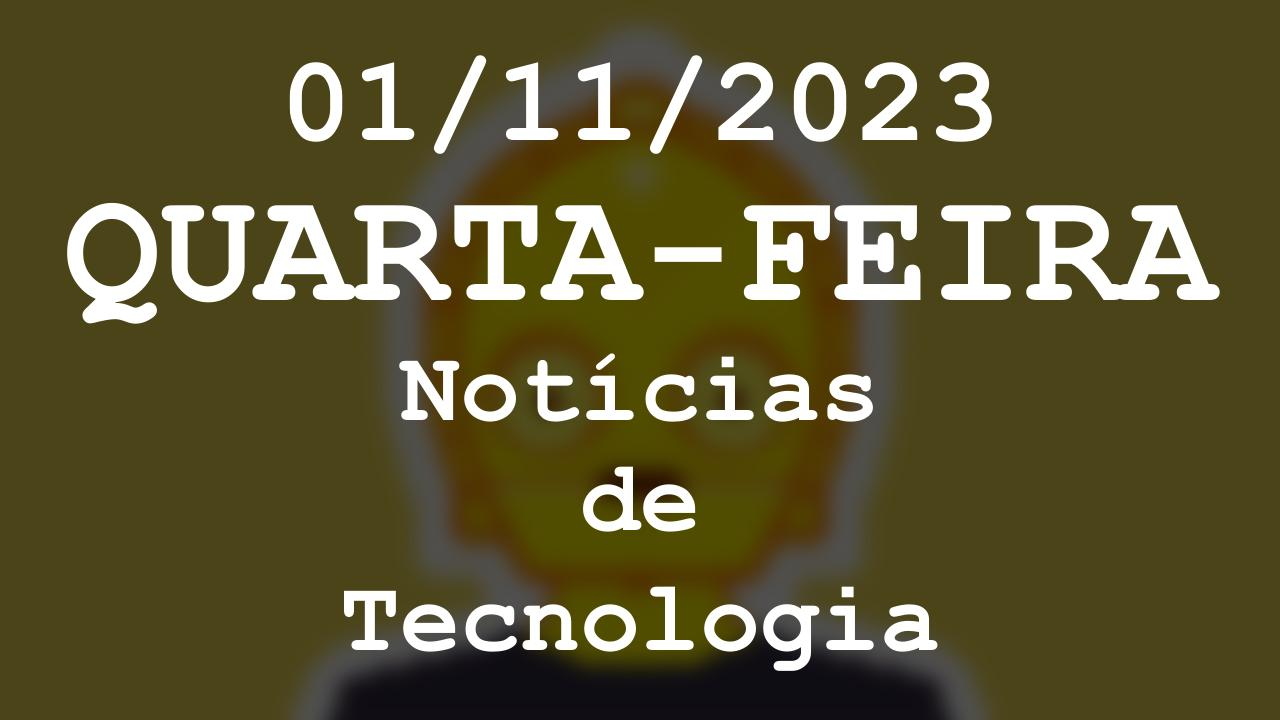
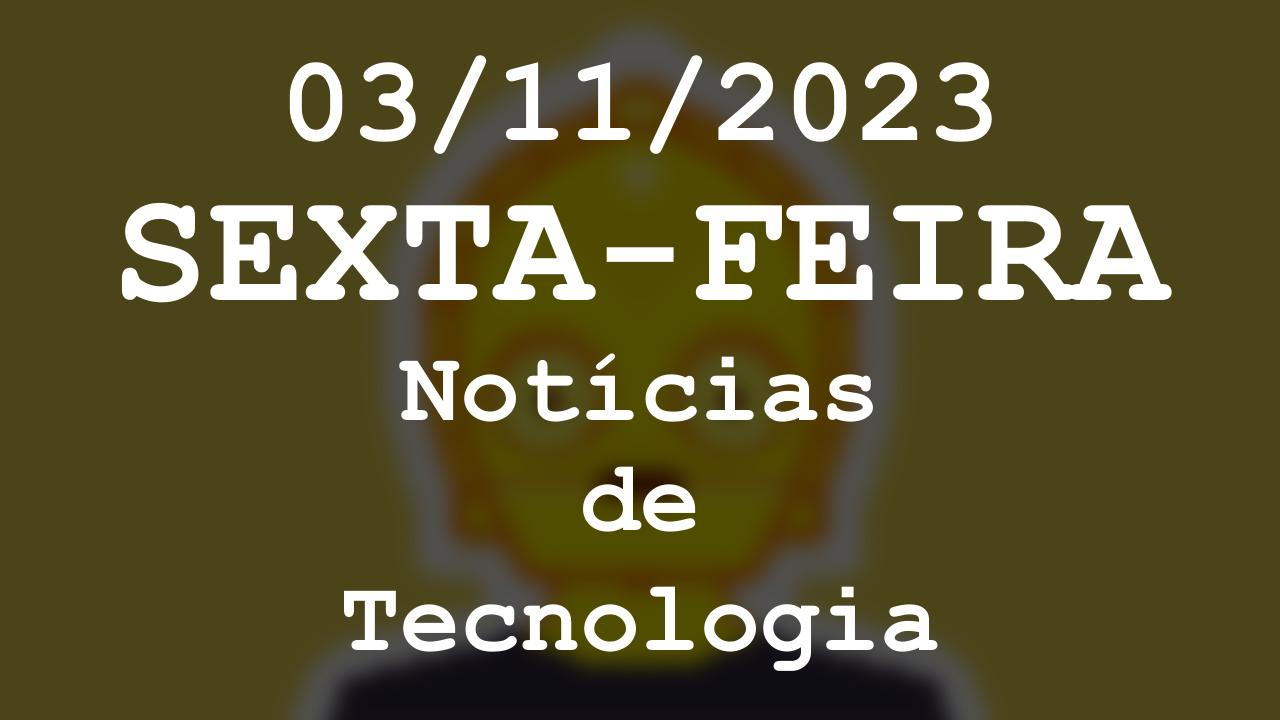
:construction: cria endpoint para atualizar thumb

Changed region(s): [[0.0312, 0.275, 0.9688, 0.4583], [0.2812, 0.0917, 0.3438, 0.1833]]

diff --git a/src/index.js b/src/index.js
@@ -6,6 +6,7 @@ const fs = require('fs');
 const app = require('./app.js');
 const thread = require('./thread.js');
 const { errorLog } = require('./webhooks.js');
+const drawThumbnail = require('./robots/draw-thumbnail.js');
 
 const EmailModel = require('./models/email.js');
 
@@ -88,6 +89,16 @@ app.get('/', async (req, res) => {
   } catch (err) {
     console.error(err);
     return res.status(400).send(err);
+  }
+});
+
+app.get('/draw-thumb', async (req, res) => {
+  const date = new Date();
+  try {
+    drawThumbnail(date);
+    return res.status(200).send(`Gerando thumbnail atualizada...`);
+  } catch (err) {
+    return res.status(400).send({ error: err });
   }
 });
 
